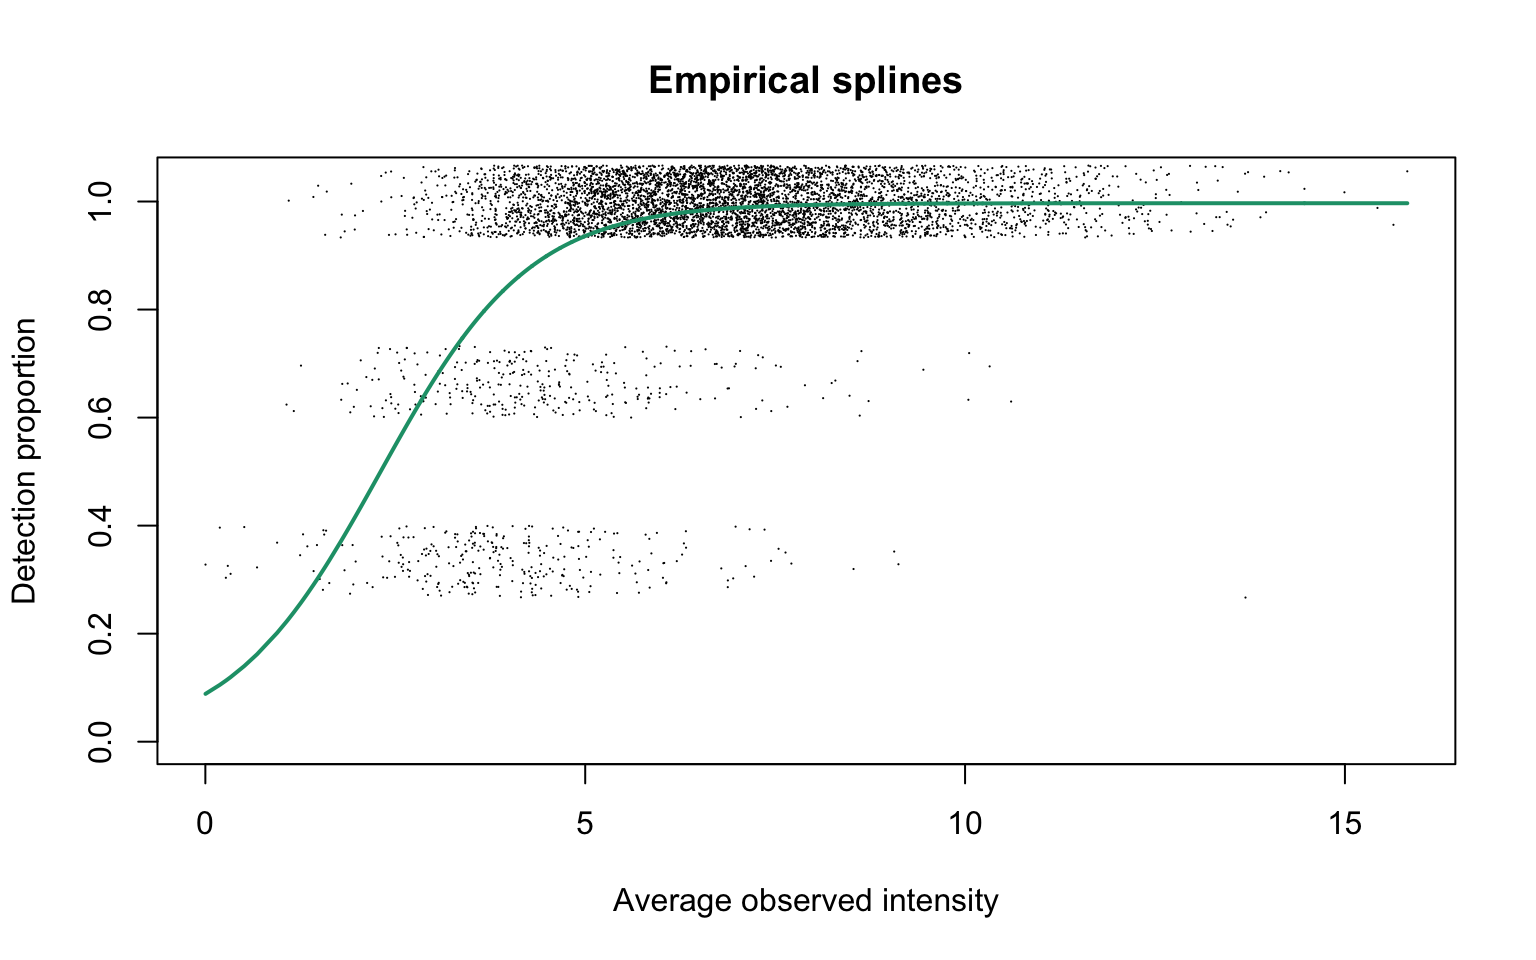
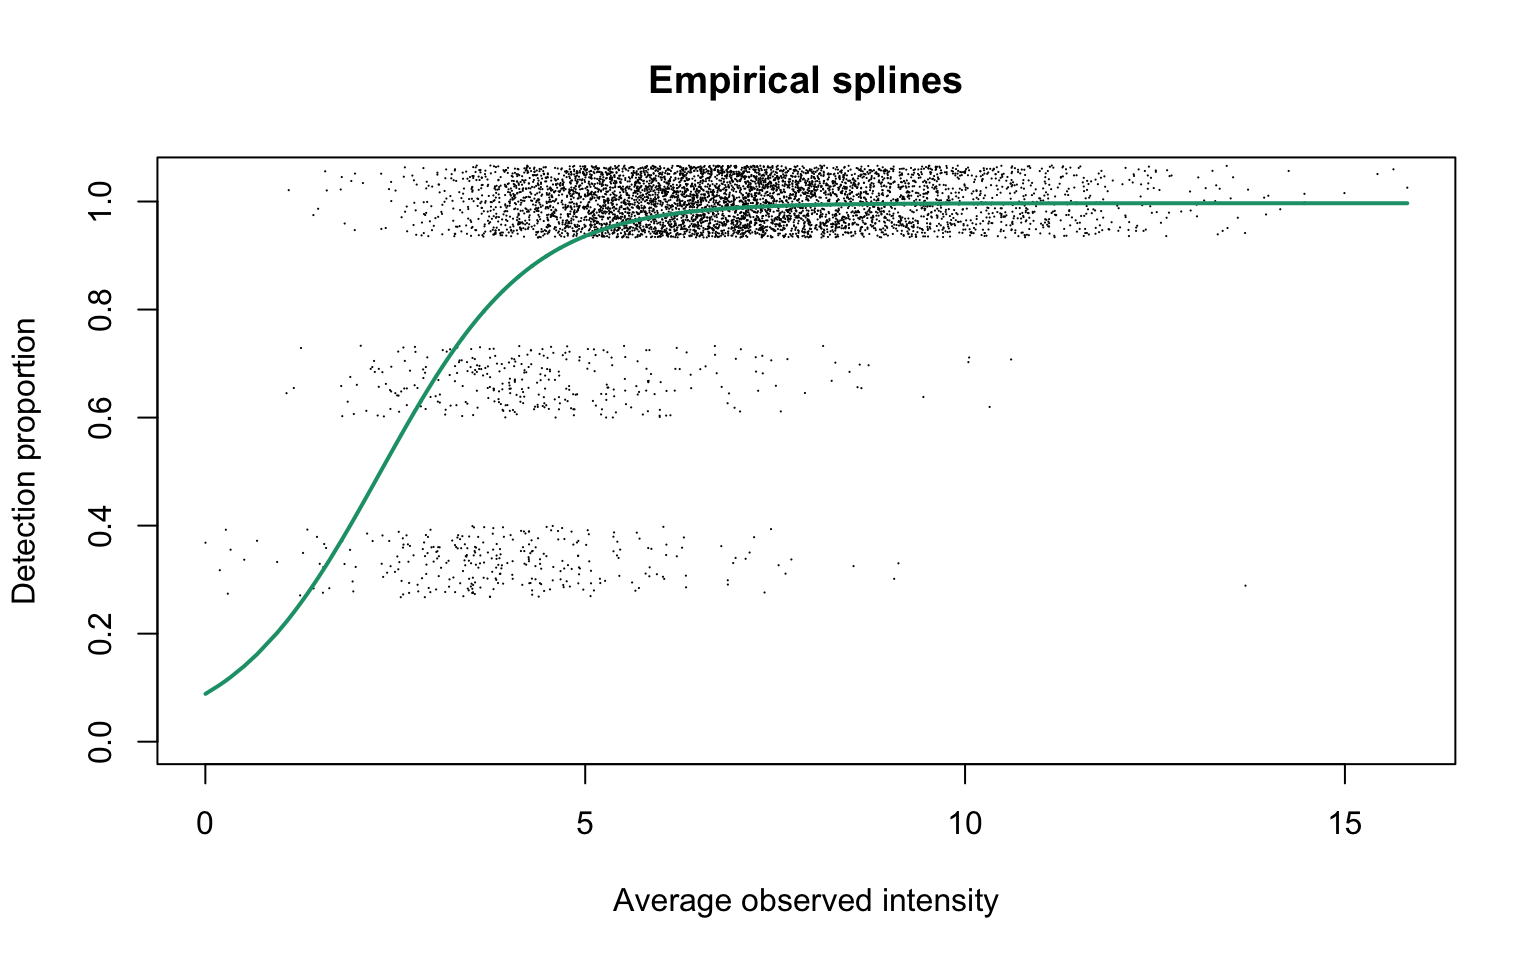
Change UPS1 case study

Changed region(s): [[0.25, 0.1562, 0.75, 0.25], [0.25, 0.375, 0.4375, 0.4375], [0.25, 0.5625, 0.375, 0.625]]

diff --git a/docs/articles/supp.html b/docs/articles/supp.html
@@ -623,7 +623,7 @@ intensities<a class="anchor" aria-label="anchor" href="#detection-probability-cu
 <span class="kw">for</span> <span class="op">(</span><span class="va">res_i</span> <span class="kw">in</span> <span class="fl">1</span><span class="op">:</span><span class="fl">2</span><span class="op">)</span> <span class="op">{</span>
     <span class="va">eachRes</span> <span class="op">&lt;-</span> <span class="va">res</span><span class="op">[[</span><span class="va">res_i</span><span class="op">]</span><span class="op">]</span>
     <span class="fu"><a href="../reference/plotDPC.html">plotDPC</a></span><span class="op">(</span><span class="va">eachRes</span><span class="op">$</span><span class="va">nuis</span>, <span class="va">eachRes</span><span class="op">$</span><span class="va">dpcFit</span>, jitter.amount <span class="op">=</span> <span class="fl">1</span><span class="op">/</span><span class="fu"><a href="https://rdrr.io/r/base/nrow.html" class="external-link">ncol</a></span><span class="op">(</span><span class="va">usp1_prec</span><span class="op">)</span><span class="op">/</span><span class="fl">2</span>,
-        point.cex <span class="op">=</span> <span class="fl">0.15</span><span class="op">)</span>
+        point.cex <span class="op">=</span> <span class="fl">0.15</span>, ylim <span class="op">=</span> <span class="fu"><a href="https://rdrr.io/r/base/c.html" class="external-link">c</a></span><span class="op">(</span><span class="fl">0</span>, <span class="fl">1.08</span><span class="op">)</span><span class="op">)</span>
     <span class="fu"><a href="https://rdrr.io/r/graphics/title.html" class="external-link">title</a></span><span class="op">(</span>sub <span class="op">=</span> <span class="fu"><a href="https://rdrr.io/r/base/c.html" class="external-link">c</a></span><span class="op">(</span><span class="st">"Precursor-level"</span>, <span class="st">"Protein-level"</span><span class="op">)</span><span class="op">[</span><span class="va">res_i</span><span class="op">]</span><span class="op">)</span>
 <span class="op">}</span></code></pre></div>
 <p><img src="supp_files/figure-html/unnamed-chunk-55-1.png" width="768"></p>
